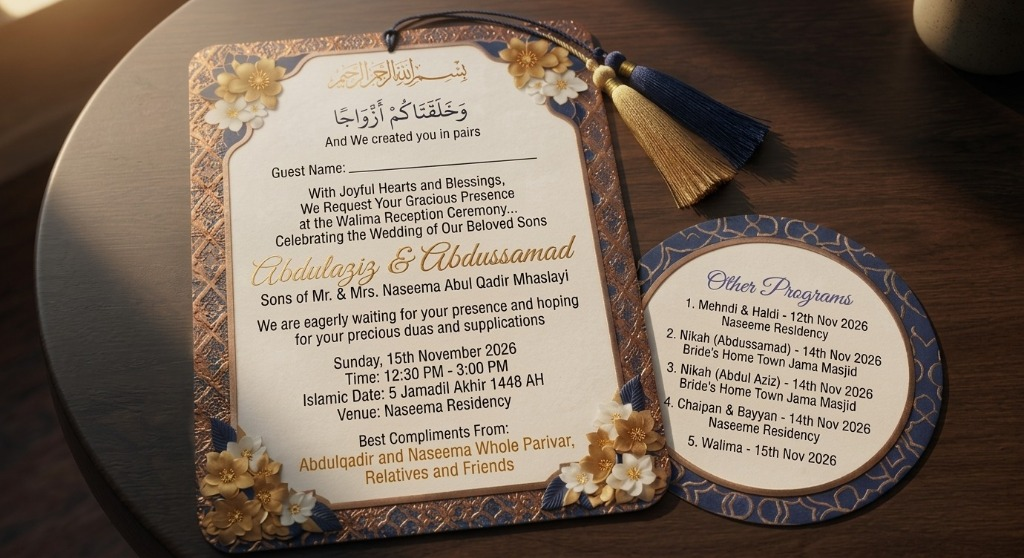
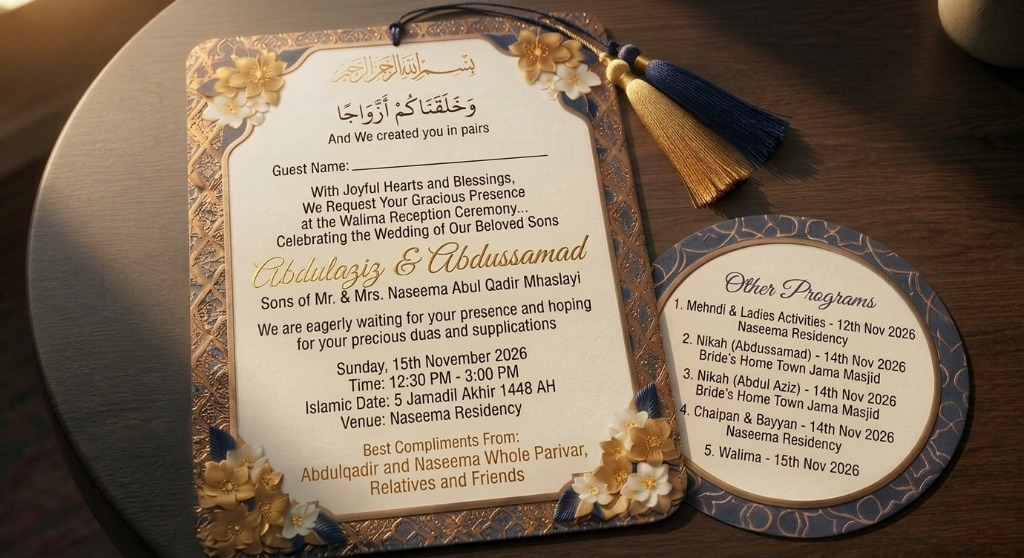
fix: third image setting

diff --git a/src/utils/individualCardExport.ts b/src/utils/individualCardExport.ts
@@ -58,8 +58,8 @@ export const GUEST_NAME_CONFIG: Record<1 | 2 | 3, CardGuestNameConfig> = {
   3: {
     // Card 3: Royal Blue English Invitation & Programs (1024 x 558)
     // Sitting directly on the printed baseline underline right after "Guest Name: "
-    topPercent: 31.2, // Calibrated default Y position (31.2%)
-    leftPercent: 34.1, // Calibrated default X position (34.1%)
+    topPercent: 30.7, // Calibrated default Y position (30.7%)
+    leftPercent: 34.6, // Calibrated default X position (34.6%)
     maxWidthPercent: 26.0,
     textAlign: 'left',
     fontFamily: '"Cormorant Garamond", Georgia, serif',
